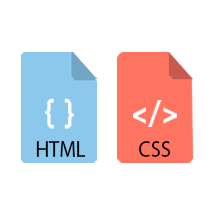
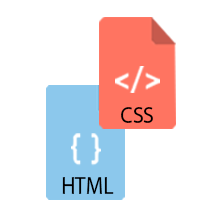
skills aligned properly na po yehey

diff --git a/css/styles.css b/css/styles.css
@@ -66,12 +66,12 @@
 .skills {
     width: 1152px;
     height: 400px;
-    margin-left: 43px;
+    margin-left: 98px;
 }
 
 .skills img {
-    margin-top: 100px;
-    padding 96px;
+    margin-top: 8px;
+    padding 50px;
 
 }
 
